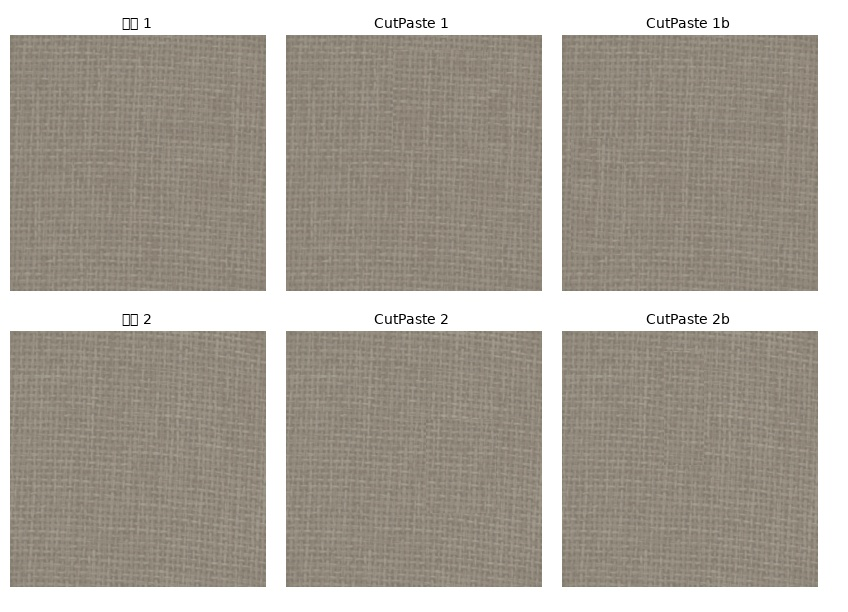
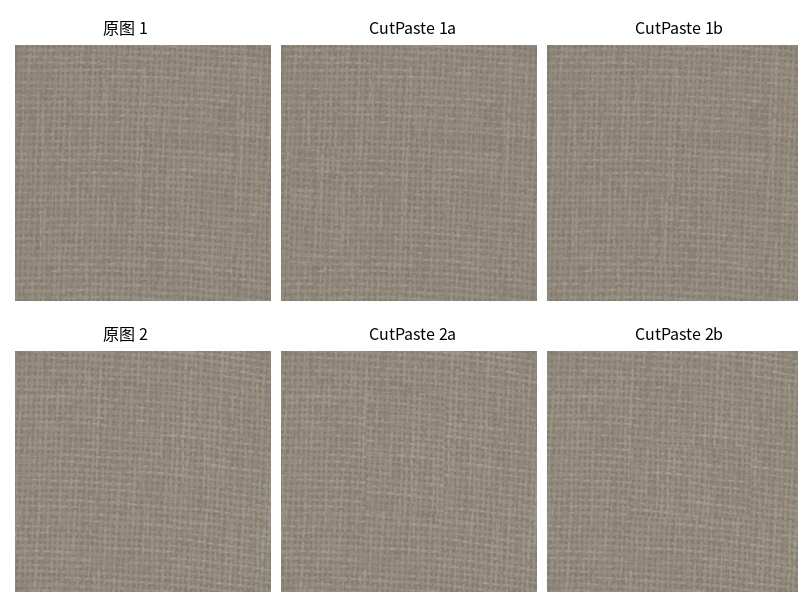
fix: 可视化图中文乱码修复(使用Noto CJK字体渲染)

Changed region(s): [[0.0, 0.0304, 1.0, 1.0]]

diff --git a/generate_visualizations.py b/generate_visualizations.py
@@ -1,9 +1,8 @@
 #!/usr/bin/env python3
 """
-生成论文需要的可视化示例图:
+生成论文需要的可视化示例图（修复中文乱码）
 - CutPaste 增强前后对比
 - 合成缺陷类型示例
-- 正常/异常热力图样本 (placeholder，等训练完后跑)
 输出: experiment_data/visualization/
 """
 
@@ -14,125 +13,119 @@ from pathlib import Path
 from PIL import Image, ImageDraw, ImageFont
 
 sys.path.insert(0, '.')
-from recontrast.dataset import cut_paste, get_data_transforms
+from recontrast.dataset import cut_paste
 import torch
 import torchvision.transforms as T
 
 
-def make_comparison_grid(images, titles, output_path, cols=3):
-    """生成对比网格图"""
-    n = len(images)
-    rows = (n + cols - 1) // cols
-    
-    # 统一大小
-    thumb_size = 256
-    thumbnails = []
-    for img in images:
-        if isinstance(img, torch.Tensor):
-            # 反归一化
-            img = img.clone()
-            img = img * torch.tensor([0.229, 0.224, 0.225]).view(3,1,1) + torch.tensor([0.485, 0.456, 0.406]).view(3,1,1)
-            img = torch.clamp(img, 0, 1)
-            img = (img.permute(1, 2, 0).numpy() * 255).astype(np.uint8)
-            img = Image.fromarray(img)
-        elif isinstance(img, np.ndarray):
-            if img.max() <= 1.0:
-                img = (img * 255).astype(np.uint8)
-            img = Image.fromarray(img)
-        
-        img = img.resize((thumb_size, thumb_size), Image.LANCZOS)
-        thumbnails.append(img)
-    
-    # 创建画布
-    canvas = Image.new('RGB', (thumb_size * cols + 20 * (cols + 1), 
-                                thumb_size * rows + 40 * rows + 20), 'white')
-    draw = ImageDraw.Draw(canvas)
-    
-    try:
-        font = ImageFont.truetype('/usr/share/fonts/truetype/dejavu/DejaVuSans.ttf', 14)
-    except:
-        font = ImageFont.load_default()
-    
-    for i, (img, title) in enumerate(zip(thumbnails, titles)):
-        row, col = i // cols, i % cols
-        x = 10 + col * (thumb_size + 20)
-        y = 10 + row * (thumb_size + 40)
-        canvas.paste(img, (x, y + 25))
-        draw.text((x + thumb_size // 2 - len(title) * 4, y + 5), title, fill='black', font=font)
-    
-    canvas.save(output_path, quality=95)
-    return output_path
+# ============================================
+# 中文字体检测
+# ============================================
+def get_chinese_font(size=18):
+    """自动检测可用的中文字体"""
+    candidates = [
+        # WSL/Linux
+        '/usr/share/fonts/opentype/noto/NotoSansCJK-Regular.ttc',
+        '/usr/share/fonts/opentype/noto/NotoSerifCJK-Regular.ttc',
+        '/usr/share/fonts/truetype/wqy/wqy-zenhei.ttc',
+        '/usr/share/fonts/truetype/wqy/wqy-microhei.ttc',
+        # Windows (WSL挂载)
+        '/mnt/c/Windows/Fonts/msyh.ttc',
+        '/mnt/c/Windows/Fonts/simhei.ttf',
+        '/mnt/c/Windows/Fonts/simsun.ttc',
+    ]
+    for path in candidates:
+        if os.path.exists(path):
+            try:
+                return ImageFont.truetype(path, size)
+            except:
+                continue
+    return ImageFont.load_default()
 
 
+def put_chinese_text(img_pil, text, position, font=None, fill='black'):
+    """在PIL图像上绘制中文文字"""
+    draw = ImageDraw.Draw(img_pil)
+    if font is None:
+        font = get_chinese_font()
+    draw.text(position, text, fill=fill, font=font)
+
+
+# ============================================
+# CutPaste 对比图
+# ============================================
 def generate_cutpaste_examples():
     """生成 CutPaste 增强前后对比 (MVTec carpet)"""
     out_dir = Path('experiment_data/visualization')
     out_dir.mkdir(parents=True, exist_ok=True)
     
-    # 找 carpet 训练图
     carpet_dir = Path('mvtec_anomaly_detection/carpet/train/good')
-    imgs = sorted(carpet_dir.glob('*.png'))[:4]
-    
+    imgs = sorted(carpet_dir.glob('*.png'))
     if not imgs:
         print("⚠ 无 carpet 训练图")
         return
     
-    transform = T.Compose([
-        T.Resize((256, 256)),
-        T.ToTensor(),
-    ])
+    transform = T.Compose([T.Resize((256, 256)), T.ToTensor()])
     
-    images = []
-    titles = []
+    # 选2张图，每张原图 + 2个不同的CutPaste = 6张
+    images, titles = [], []
+    font = get_chinese_font(16)
     
-    for i, img_path in enumerate(imgs[:2]):
-        img = Image.open(img_path).convert('RGB')
-        img_tensor = transform(img)
-        
-        # 原始
-        images.append(img_tensor.clone())
+    for i in range(2):
+        img_tensor = transform(Image.open(imgs[i]).convert('RGB'))
+        images.append(img_tensor)
         titles.append(f'原图 {i+1}')
         
-        # CutPaste
-        cp = cut_paste(img_tensor.clone())
-        images.append(cp)
-        titles.append(f'CutPaste {i+1}')
+        np.random.seed(i * 37)
+        cp1 = cut_paste(img_tensor.clone())
+        images.append(cp1)
+        titles.append(f'CutPaste {i+1}a')
         
-        # 再做一个不同随机种子的
-        np.random.seed(i * 42)
+        np.random.seed(i * 37 + 7)
         cp2 = cut_paste(img_tensor.clone())
         images.append(cp2)
         titles.append(f'CutPaste {i+1}b')
     
+    thumb_size = 256
+    cols, rows = 3, 2
+    canvas = Image.new('RGB', (thumb_size * cols + 30, thumb_size * rows + 50 + 30), 'white')
+    
+    for idx, (img, title) in enumerate(zip(images, titles)):
+        row, col = idx // cols, idx % cols
+        x = 15 + col * (thumb_size + 10)
+        y = 15 + row * (thumb_size + 50)
+        
+        # 转PIL
+        img_np = img * torch.tensor([0.229, 0.224, 0.225]).view(3,1,1) + torch.tensor([0.485, 0.456, 0.406]).view(3,1,1)
+        img_np = torch.clamp(img_np, 0, 1)
+        img_np = (img_np.permute(1, 2, 0).numpy() * 255).astype(np.uint8)
+        pil_img = Image.fromarray(img_np)
+        
+        canvas.paste(pil_img, (x, y + 30))
+        put_chinese_text(canvas, title, (x + thumb_size // 2 - 40, y), font=font)
+    
     output = out_dir / 'cutpaste_examples.jpg'
-    make_comparison_grid(images, titles, str(output), cols=3)
+    canvas.save(output, quality=95)
     print(f"✅ CutPaste 示例: {output}")
 
 
+# ============================================
+# 合成缺陷类型
+# ============================================
 def generate_synthetic_defect_examples():
-    """生成合成缺陷类型示例"""
-    import cv2
-    sys.path.insert(0, '.')
-    from generate_synthetic_defects import (
-        imread_unicode, add_scratch, add_stains, add_spots, 
-        add_missing_region, generate_defect
-    )
+    """生成合成缺陷类型示例（使用PIL渲染中文）"""
+    from generate_synthetic_defects import imread_unicode, add_scratch, add_stains, add_spots, add_missing_region, generate_defect as gen_def
     
     out_dir = Path('experiment_data/visualization')
     out_dir.mkdir(parents=True, exist_ok=True)
     
     # 找晶圆图
-    wafer_dir = Path('data/晶圆分类数据集/BGA S5E 16x7/test/good')
-    imgs = sorted(wafer_dir.glob('*.jpg'))[:1]
-    
-    if not imgs:
-        # 尝试其他品类
-        for cat_dir in Path('data/晶圆分类数据集').iterdir():
-            if cat_dir.is_dir():
-                good_dir = cat_dir / 'test' / 'good'
-                imgs = sorted(good_dir.glob('*.jpg'))[:1]
-                if imgs:
-                    break
+    for cat_dir in sorted(Path('data/晶圆分类数据集').iterdir()):
+        if cat_dir.is_dir():
+            good_dir = cat_dir / 'test' / 'good'
+            imgs = sorted(good_dir.glob('*.jpg'))
+            if imgs:
+                break
     
     if not imgs:
         print("⚠ 无晶圆图片")
@@ -140,40 +133,50 @@ def generate_synthetic_defect_examples():
     
     img = imread_unicode(str(imgs[0]))
     if img is None:
-        print("⚠ 无法读取晶圆图")
         return
     
-    # 生成各类型
-    variants = {
-        '原始图': img,
-        '划痕': add_scratch(img.copy()),
-        '污渍': add_stains(img.copy()),
-        '斑点': add_spots(img.copy()),
-        '缺失': add_missing_region(img.copy()),
-        '中度组合': generate_defect(img.copy(), intensity='medium'),
-        '重度组合': generate_defect(img.copy(), intensity='heavy'),
-    }
-    
-    # 统一大小并保存
     h, w = img.shape[:2]
-    total_w = w * 4
-    total_h = h * 2 + 30
-    canvas = np.ones((total_h, total_w, 3), dtype=np.uint8) * 255
     
-    for i, (name, variant) in enumerate(variants.items()):
-        row, col = i // 4, i % 4
-        x = col * w
-        y = row * (h + 30)
-        canvas[y:y+h, x:x+w] = variant
-        cv2.putText(canvas, name, (x + 10, y + 20), 
-                    cv2.FONT_HERSHEY_SIMPLEX, 0.5, (0, 0, 0), 1)
+    variants = [
+        ('原图', img),
+        ('划痕 (Scratch)', add_scratch(img.copy())),
+        ('污渍 (Stain)', add_stains(img.copy())),
+        ('斑点 (Spot)', add_spots(img.copy())),
+        ('缺失 (Missing)', add_missing_region(img.copy())),
+        ('中度组合', gen_def(img.copy(), intensity='medium')),
+        ('重度组合', gen_def(img.copy(), intensity='heavy')),
+    ]
+    
+    # 3列x3行网格
+    cols = 3
+    rows = (len(variants) + cols - 1) // cols
+    cell_w, cell_h = 310, 180
+    
+    canvas = Image.new('RGB', (cell_w * cols + 20, cell_h * rows + 20), 'white')
+    font = get_chinese_font(14)
+    
+    for idx, (name, img_bgr) in enumerate(variants):
+        row, col = idx // cols, idx % cols
+        x = 10 + col * cell_w
+        y = 10 + row * cell_h
+        
+        # BGR → RGB → PIL
+        img_rgb = cv2.cvtColor(img_bgr, cv2.COLOR_BGR2RGB)
+        pil_img = Image.fromarray(img_rgb).resize((280, 140))
+        
+        canvas.paste(pil_img, (x + 10, y + 25))
+        put_chinese_text(canvas, name, (x + 10, y + 5), font=font)
     
     output = out_dir / 'synthetic_defect_types.jpg'
-    cv2.imwrite(str(output), canvas)
+    canvas.save(output, quality=95)
     print(f"✅ 合成缺陷类型: {output}")
 
 
+# ============================================
+# MAIN
+# ============================================
 if __name__ == '__main__':
+    import cv2
     generate_cutpaste_examples()
     generate_synthetic_defect_examples()
-    print("\n✅ 可视化示例生成完成！保存至 experiment_data/visualization/")
+    print("✅ 可视化示例生成完成！")
